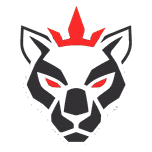
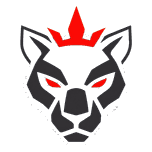
fix(brand): align header and IPA splash with Radix #FF0702
The UI accent moved to the custom Radix red, but the header panther and
the launch images baked into the IPA were still the previous red. Regenerate
those marks from the same scale so the next unsigned IPA matches the wordmark.

Changed region(s): [[0.3158, 0.0526, 0.6842, 0.3158], [0.2895, 0.5, 0.3947, 0.5789], [0.6053, 0.5263, 0.7105, 0.5789]]

diff --git a/src/assets/brand/headerMarkPalette.test.ts b/src/assets/brand/headerMarkPalette.test.ts
@@ -1,0 +1,36 @@
+import sharp from 'sharp'
+import { describe, expect, it } from 'vitest'
+
+async function countReds(file: string) {
+  const { data } = await sharp(file).ensureAlpha().raw().toBuffer({ resolveWithObject: true })
+  let exact = 0
+  let oldBrand = 0
+  let near = 0
+  for (let i = 0; i < data.length; i += 4) {
+    if ((data[i + 3] ?? 0) < 200) continue
+    const r = data[i] ?? 0
+    const g = data[i + 1] ?? 0
+    const b = data[i + 2] ?? 0
+    if (r === 255 && g === 7 && b === 2) exact += 1
+    if (r > 240 && g >= 30 && b >= 30) oldBrand += 1
+    if (r > 240 && g < 20 && b < 20) near += 1
+  }
+  return { exact, oldBrand, near }
+}
+
+describe('marque header et splash IPA — palette Radix #FF0702', () => {
+  it('la panthère du header n’est plus l’ancien #FF2B2B', async () => {
+    const { oldBrand, near } = await countReds('public/brand-header-mark.png')
+    expect(oldBrand).toBe(0)
+    expect(near).toBeGreaterThan(100)
+  })
+
+  it('le splash embarqué dans l’IPA contient le rouge Radix #FF0702', async () => {
+    const { exact, oldBrand, near } = await countReds(
+      'ios/App/App/Assets.xcassets/Splash.imageset/Default@2x~universal~anyany-dark.png',
+    )
+    expect(exact).toBeGreaterThan(0)
+    expect(oldBrand).toBe(0)
+    expect(near).toBeGreaterThan(1000)
+  })
+})
